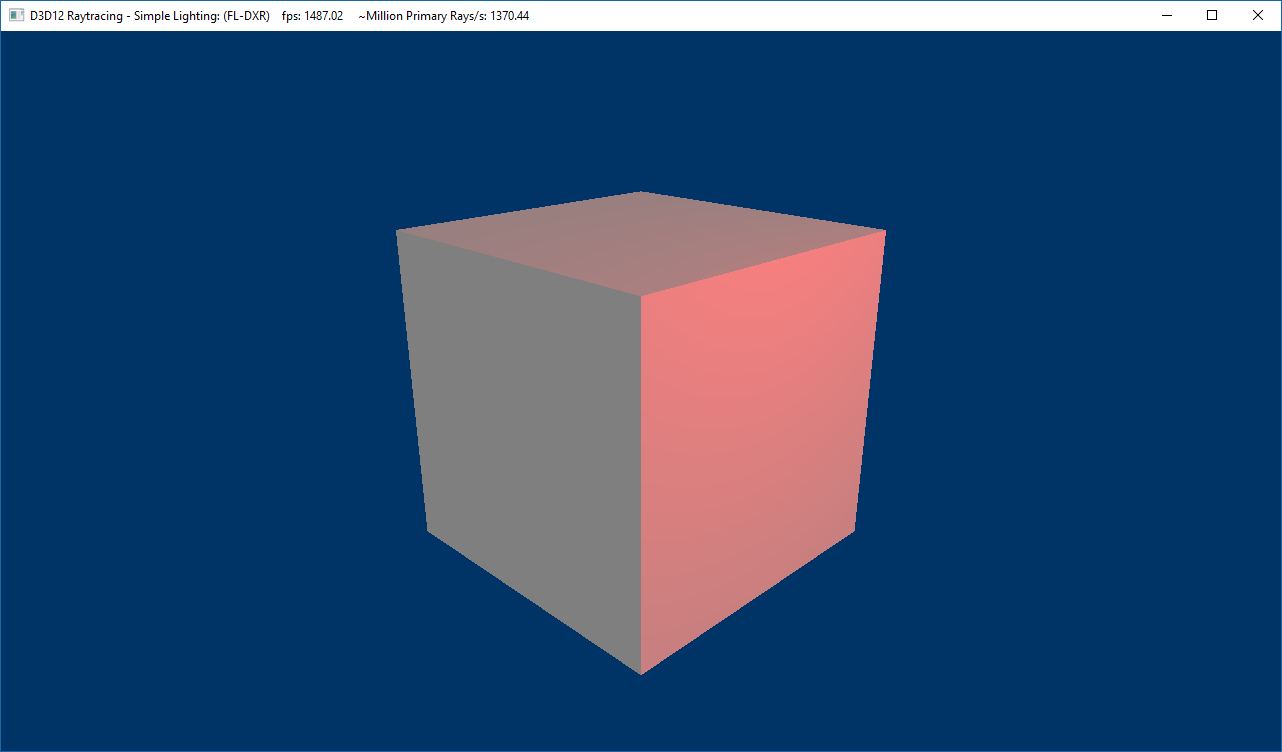
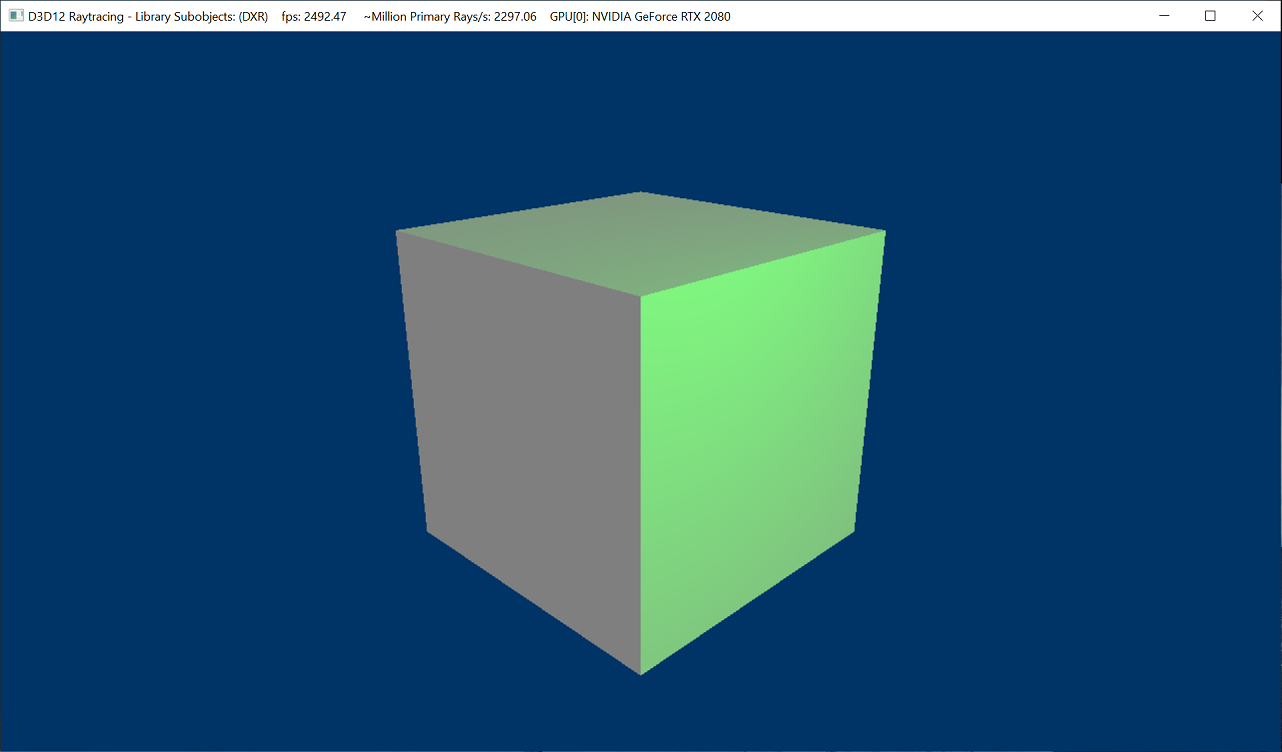
Removed unnecessary Fallback Layer dependencies and references. Some naming cleanup.

Changed region(s): [[0.312, 0.2447, 0.7176, 0.887], [0.936, 0.0, 1.0, 1.0], [0.0, 0.0, 0.5928, 0.0306]]

diff --git a/Samples/Desktop/D3D12Raytracing/src/D3D12RaytracingLibrarySubobjects/D3D12RaytracingLibrarySubobjects.cpp b/Samples/Desktop/D3D12Raytracing/src/D3D12RaytracingLibrarySubobjects/D3D12RaytracingLibrarySubobjects.cpp
@@ -41,15 +41,7 @@ D3D12RaytracingLibrarySubobjects::D3D12RaytracingLibrarySubobjects(UINT width, U
 void D3D12RaytracingLibrarySubobjects::EnableDirectXRaytracing(IDXGIAdapter1* adapter)
 {
     m_isDxrSupported = IsDirectXRaytracingSupported(adapter);
-
-    if (!m_isDxrSupported)
-    {
-        OutputDebugString(L"Warning: DirectX Raytracing is not supported by your GPU and driver.\n\n");
-
-        ThrowIfFalse(false, 
-            L"Could not enable compute based fallback raytracing support (D3D12EnableExperimentalFeatures() failed).\n"\
-            L"Possible reasons: your OS is not in developer mode.\n\n");
-    }
+    ThrowIfFalse(m_isDxrSupported, L"DirectX Raytracing is not supported by your GPU and driver.\n\n");
 }
 
 void D3D12RaytracingLibrarySubobjects::OnInit()
@@ -60,7 +52,7 @@ void D3D12RaytracingLibrarySubobjects::OnInit()
         FrameCount,
         D3D_FEATURE_LEVEL_11_0,
         // Sample shows handling of use cases with tearing support, which is OS dependent and has been supported since TH2.
-        // Since the Fallback Layer requires Fall Creator's update (RS3), we don't need to handle non-tearing cases.
+        // Since the Library Subobjects requires 19h1 OS update, we don't need to handle non-tearing cases.
         DeviceResources::c_RequireTearingSupport,
         m_adapterIDoverride
         );
@@ -133,7 +125,7 @@ void D3D12RaytracingLibrarySubobjects::InitializeScene()
         lightAmbientColor = XMFLOAT4(0.5f, 0.5f, 0.5f, 1.0f);
         m_sceneCB[frameIndex].lightAmbientColor = XMLoadFloat4(&lightAmbientColor);
 
-        lightDiffuseColor = XMFLOAT4(0.5f, 0.0f, 0.0f, 1.0f);
+        lightDiffuseColor = XMFLOAT4(0.0f, 0.5f, 0.0f, 1.0f);
         m_sceneCB[frameIndex].lightDiffuseColor = XMLoadFloat4(&lightDiffuseColor);
     }
 
@@ -256,13 +248,13 @@ void D3D12RaytracingLibrarySubobjects::CreateRaytracingPipelineStateObject()
     // 1 - Global root signature
     // 1 - Pipeline config
     // 1 - Subobject to export association
-    CD3D12_STATE_OBJECT_DESC raytracingPipeline{ D3D12_STATE_OBJECT_TYPE_RAYTRACING_PIPELINE };
+    CD3DX12_STATE_OBJECT_DESC raytracingPipeline{ D3D12_STATE_OBJECT_TYPE_RAYTRACING_PIPELINE };
 
 
     // DXIL library
     // This contains the shaders and their entrypoints for the state object.
     // Since shaders are not considered a subobject, they need to be passed in via DXIL library subobjects.
-    auto lib = raytracingPipeline.CreateSubobject<CD3D12_DXIL_LIBRARY_SUBOBJECT>();
+    auto lib = raytracingPipeline.CreateSubobject<CD3DX12_DXIL_LIBRARY_SUBOBJECT>();
     D3D12_SHADER_BYTECODE libdxil = CD3DX12_SHADER_BYTECODE((void *)g_pRaytracing, ARRAYSIZE(g_pRaytracing));
     lib->SetDXILLibrary(&libdxil);
     // Define which shader exports to surface from the library.
@@ -319,11 +311,10 @@ void D3D12RaytracingLibrarySubobjects::CreateDescriptorHeap()
     auto device = m_deviceResources->GetD3DDevice();
 
     D3D12_DESCRIPTOR_HEAP_DESC descriptorHeapDesc = {};
-    // Allocate a heap for 5 descriptors:
+    // Allocate a heap for 3 descriptors:
     // 2 - vertex and index buffer SRVs
     // 1 - raytracing output texture SRV
-    // 2 - bottom and top level acceleration structure fallback wrapped pointer UAVs
-    descriptorHeapDesc.NumDescriptors = 5; 
+    descriptorHeapDesc.NumDescriptors = 3; 
     descriptorHeapDesc.Type = D3D12_DESCRIPTOR_HEAP_TYPE_CBV_SRV_UAV;
     descriptorHeapDesc.Flags = D3D12_DESCRIPTOR_HEAP_FLAG_SHADER_VISIBLE;
     descriptorHeapDesc.NodeMask = 0;
@@ -535,7 +526,7 @@ void D3D12RaytracingLibrarySubobjects::BuildShaderTables()
     // Get shader identifiers.
     UINT shaderIdentifierSize;
     {
-        ComPtr<ID3D12StateObjectPropertiesPrototype> stateObjectProperties;
+        ComPtr<ID3D12StateObjectProperties> stateObjectProperties;
         ThrowIfFailed(m_dxrStateObject.As(&stateObjectProperties));
         GetShaderIdentifiers(stateObjectProperties.Get());
         shaderIdentifierSize = D3D12_SHADER_IDENTIFIER_SIZE_IN_BYTES;

diff --git a/Samples/Desktop/D3D12Raytracing/src/D3D12RaytracingLibrarySubobjects/DirectXRaytracingHelper.h b/Samples/Desktop/D3D12Raytracing/src/D3D12RaytracingLibrarySubobjects/DirectXRaytracingHelper.h
@@ -280,18 +280,6 @@ inline void PrintStateObjectDesc(const D3D12_STATE_OBJECT_DESC* desc)
     OutputDebugStringW(wstr.str().c_str());
 }
 
-// Enable experimental features required for compute-based raytracing fallback.
-// This will set active D3D12 devices to DEVICE_REMOVED state.
-// Returns bool whether the call succeeded and the device supports the feature.
-inline bool EnableComputeRaytracingFallback(IDXGIAdapter1* adapter)
-{
-    ComPtr<ID3D12Device> testDevice;
-    UUID experimentalFeatures[] = { D3D12ExperimentalShaderModels };
-
-    return SUCCEEDED(D3D12EnableExperimentalFeatures(1, experimentalFeatures, nullptr, nullptr))
-        && SUCCEEDED(D3D12CreateDevice(adapter, D3D_FEATURE_LEVEL_11_0, IID_PPV_ARGS(&testDevice)));
-}
-
 // Returns bool whether the device supports DirectX Raytracing tier.
 inline bool IsDirectXRaytracingSupported(IDXGIAdapter1* adapter)
 {

diff --git a/Samples/Desktop/D3D12Raytracing/src/D3D12RaytracingLibrarySubobjects/Main.cpp b/Samples/Desktop/D3D12Raytracing/src/D3D12RaytracingLibrarySubobjects/Main.cpp
@@ -15,6 +15,6 @@
 _Use_decl_annotations_
 int WINAPI WinMain(HINSTANCE hInstance, HINSTANCE, LPSTR, int nCmdShow)
 {
-    D3D12RaytracingLibrarySubobjects sample(1280, 720, L"D3D12 Raytracing - Simple Library Subobjects");
+    D3D12RaytracingLibrarySubobjects sample(1280, 720, L"D3D12 Raytracing - Library Subobjects");
     return Win32Application::Run(&sample, hInstance, nCmdShow);
 }

diff --git a/Samples/Desktop/D3D12Raytracing/src/D3D12RaytracingLibrarySubobjects/D3D12RaytracingLibrarySubobjects.h b/Samples/Desktop/D3D12Raytracing/src/D3D12RaytracingLibrarySubobjects/D3D12RaytracingLibrarySubobjects.h
@@ -32,9 +32,6 @@ namespace LocalRootSignatureParams {
     };
 }
 
-// The sample supports DirectX Raytracing API only, and will work only for 
-// machine where drivers and os support Directx Raytracing. Raytracing fallback layer is 
-// deprecated, and will not be suppored. 
 class D3D12RaytracingLibrarySubobjects : public DXSample
 {
 

diff --git a/Samples/Desktop/D3D12Raytracing/src/D3D12RaytracingLibrarySubobjects/stdafx.h b/Samples/Desktop/D3D12Raytracing/src/D3D12RaytracingLibrarySubobjects/stdafx.h
@@ -37,9 +37,8 @@
 #include <assert.h>
 
 #include <dxgi1_6.h>
-#include "d3d12_1.h"
+#include <d3d12.h>
 #include <atlbase.h>
-#include "D3D12RaytracingHelpers.hpp"
 #include "d3dx12.h"
 
 #include <DirectXMath.h>

diff --git a/Samples/Desktop/D3D12Raytracing/src/D3D12RaytracingLibrarySubobjects/readme.md b/Samples/Desktop/D3D12Raytracing/src/D3D12RaytracingLibrarySubobjects/readme.md
@@ -3,12 +3,12 @@
 
 This sample modifies the [D3D12 Raytracing Simple Lighting sample](../D3D12RaytracingSimpleLighting/readme.md) to illustrate how to  define `D3D12_STATE_SUBOBJECTS` in the DXIL library hlsl shader code, and use it in C++ source to create raytracing state objects. This method of specifying subobjects is simpler, modular, and more reusable since both the shader and its properties can be encapsulated within the same shader. 
 
-The sample assumes familiarity with Dx12 programming and DirectX Raytracing concepts introduced in the [D3D12 Raytracing Hello World sample](../D3D12RaytracingHelloWorld/readme.md).
+The sample assumes familiarity with Dx12 programming and DirectX Raytracing concepts introduced in the [D3D12 Raytracing Simple Lighting sample](../D3D12RaytracingSimpleLighting/readme.md).
 
 ##### Changes for using library subobjects
-* This sample only used to use implicit default subobjects (except for local root signature) at state object scope. All the suboject except for the DXIL library can be removed, and moved inside the library (can be made into library subobjects). As all the shaders are within the same dxil library, existing implicit default subobject will apply to all the shader at this library scope. 
+* The D3D12 Raytracing Simple Lighting sample used implicit default subobjects (except for local root signature) at state object scope. All the suboject except for the DXIL library can be removed, and moved inside the library (can be made into library subobjects). As all the shaders are within the same DXIL library, existing implicit default subobject will apply to all the shader at this library scope. 
 
-* Thus library Subobjects (including local root signature association) can be defined in the `Raytrcing.hlsl` file using the compiler instrinsics as following:
+* Thus library subobjects (including local root signature association) can be defined in the `Raytracing.hlsl` file using  compiler instrinsics as follows:
 ```cpp
 GlobalRootSignature MyGlobalRootSignature =
   {
@@ -47,7 +47,7 @@ RaytracingPipelineConfig MyPipelineConfig =
 };
 ```
 
-* Subobject names in the library in the exports are exported from library subobject(without renaming them). Using this all the export subobjects are processed and associations are resolved while adding the DXIL library in `CreateStateObject` call. This exporting is done in `D3D12RaytracingLibrarySubobjects.cpp` as following:
+* Subobject names in the library in the exports are exported from library subobject (without renaming them). Using this all the export subobjects are processed and associations are resolved during the DXIL library in `CreateStateObject` call. This exporting is done in `D3D12RaytracingLibrarySubobjects.cpp` as follows:
 ```
   // Library subobject names
   const wchar_t* D3D12RaytracingLibrarySubobjects::c_globalRootSignatureName = L"MyGlobalRootSignature";
@@ -87,5 +87,5 @@ The title bar of the sample provides runtime information:
 * GPU[ID]: name
 
 ## Requirements
-* Windows SDK version 18282 or higher is required for update compiler (dxc), OS version 18290 or higher (19H1) is needed for runtime and debug layer binaries. 
+* Windows SDK version 18343 or higher is required for update compiler (dxc), OS version 18343 or higher (19H1) is needed for runtime and debug layer binaries. 
 * Consult the main [D3D12 Raytracing readme](../../readme.md) for requirements.

diff --git a/Samples/Desktop/D3D12Raytracing/readme.md b/Samples/Desktop/D3D12Raytracing/readme.md
@@ -24,7 +24,7 @@ This sample demonstrates how to implement procedural geometry using intersection
 ![D3D12 Raytracing Procedural Geometry GUI](src/D3D12RaytracingProceduralGeometry/Screenshot_small.png)
 
 
-## 4. [Library Subobject Sample](src/D3D12LibrarySubobjects/readme.md)
+## 4. [Library Subobjects Sample](src/D3D12LibrarySubobjects/readme.md)
 This sample modifies the simple lighting sample, and illustrates how to use library subobjects.
 
 ![D3D12 Raytracing Library Subobjects GUI](src/D3D12RaytracingLibrarySubobjects/Screenshot_small.png)
